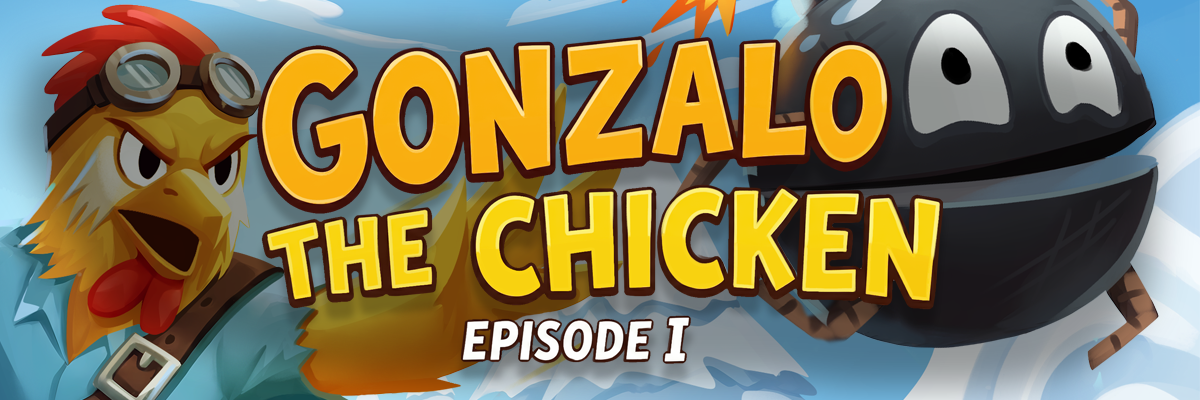
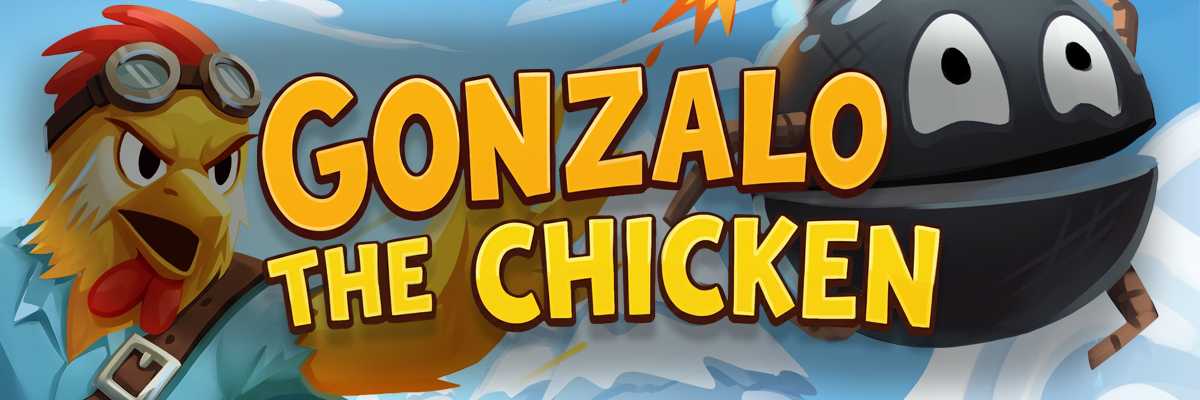
Press kit rebrand

Changed region(s): [[0.2158, 0.09, 0.8017, 0.96]]

diff --git a/src/routes/+page.svelte b/src/routes/+page.svelte
@@ -74,7 +74,7 @@
 		<!-- Social media links -->
 		<div class="justify-self-center lg:justify-self-end space-x-2">
 			<SocialMediaTooltipButton
-				link="https://store.steampowered.com/app/4117840/Gonzalo_the_Chicken__Episode_I/"
+				link="https://store.steampowered.com/app/4117840/Gonzalo_the_Chicken/"
 				tooltipText="Wishlist on Steam!"
 				icon="mdi:steam"
 			/>
@@ -128,10 +128,10 @@
 	<div class="flex flex-col items-center gap-4 p-4 max-w-5xl mx-auto">
 		<div class="w-full text-center">
 			<GameHoverButton
-				altText="Gonzalo the Chicken Episode 1"
-				hoveredImage="gonzalo-episode-1-hovered.png"
-				unhoveredImage="gonzalo-episode-1.png"
-				link="https://store.steampowered.com/app/4117840/Gonzalo_the_Chicken__Episode_I/"
+				altText="Gonzalo the Chicken"
+				hoveredImage="gonzalo-hovered.png"
+				unhoveredImage="gonzalo.png"
+				link="https://store.steampowered.com/app/4117840/Gonzalo_the_Chicken/"
 			/>
 		</div>
 
@@ -217,7 +217,7 @@
 
 				<div class="fact-block">
 					<span class="fact-label">Official Game Title</span>
-					<span class="fact-data">Gonzalo the Chicken - Episode I</span>
+					<span class="fact-data">Gonzalo the Chicken</span>
 				</div>
 
 				<div class="fact-block">
@@ -228,7 +228,7 @@
 
 				<div class="fact-block">
 					<span class="fact-label">Planned Release</span>
-					<span class="fact-data">Summer 2026</span>
+					<span class="fact-data">Fall 2026</span>
 				</div>
 
 				<div class="fact-block">
@@ -255,8 +255,8 @@
 					<span class="fact-label">Steam Store Page</span>
 					<span class="fact-data"
 						><a
-							href="https://store.steampowered.com/app/4117840/Gonzalo_the_Chicken__Episode_I/"
-							target="_blank">Gonzalo the Chicken - Episode I</a
+							href="https://store.steampowered.com/app/4117840/Gonzalo_the_Chicken/"
+							target="_blank">Gonzalo the Chicken</a
 						></span
 					>
 				</div>
@@ -275,8 +275,7 @@
 						></span
 					>
 					<span class="fact-data"
-						><a href="https://www.youtube.com/@whaleplanestudios5293" target="_blank">Youtube</a
-						></span
+						><a href="https://www.youtube.com/@whaleplanestudios" target="_blank">Youtube</a></span
 					>
 					<span class="fact-data"
 						><a href="https://www.tiktok.com/@whaleplanestudios" target="_blank">TikTok</a></span
@@ -436,7 +435,7 @@
 					<!-- Gameplay Trailer - Embed YouTube video -->
 					<div class="gallery-item">
 						<iframe
-							src="https://www.youtube.com/embed/g2VywUCs6sk"
+							src="https://www.youtube.com/embed/NgTh27RDyRc"
 							title="Gameplay Trailer"
 							frameborder="0"
 							allow="accelerometer; autoplay; clipboard-write; encrypted-media; gyroscope; picture-in-picture"
